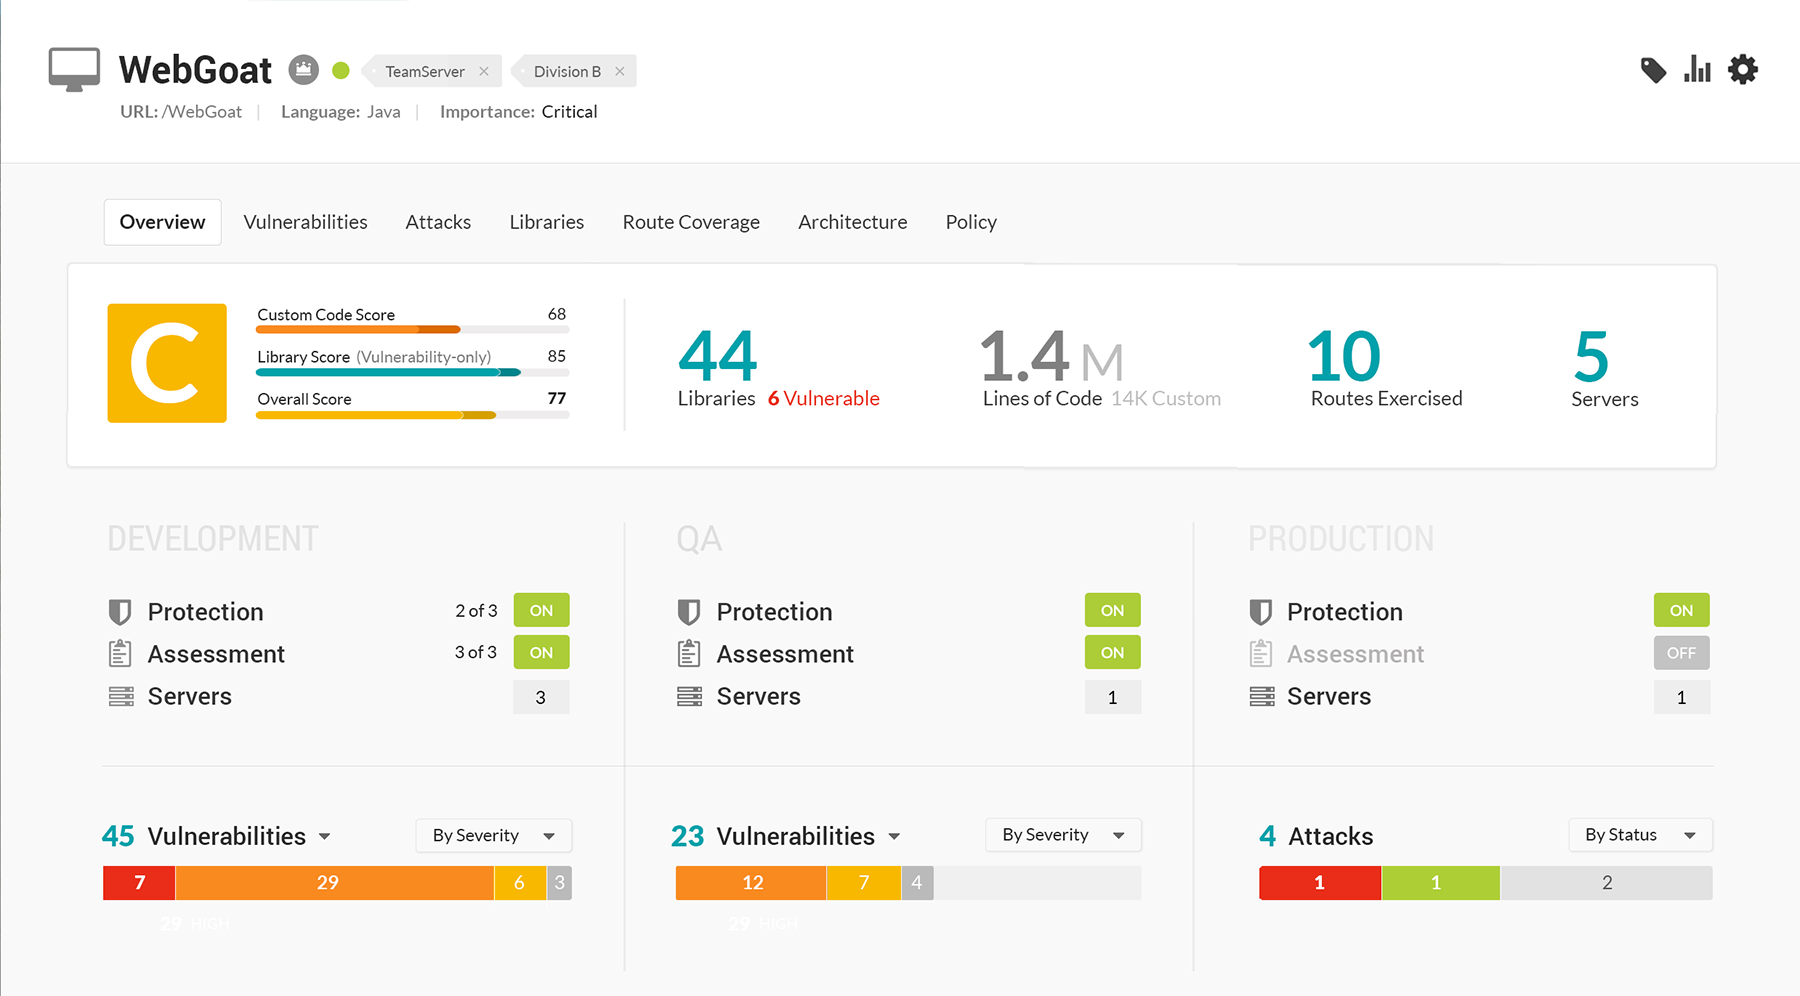
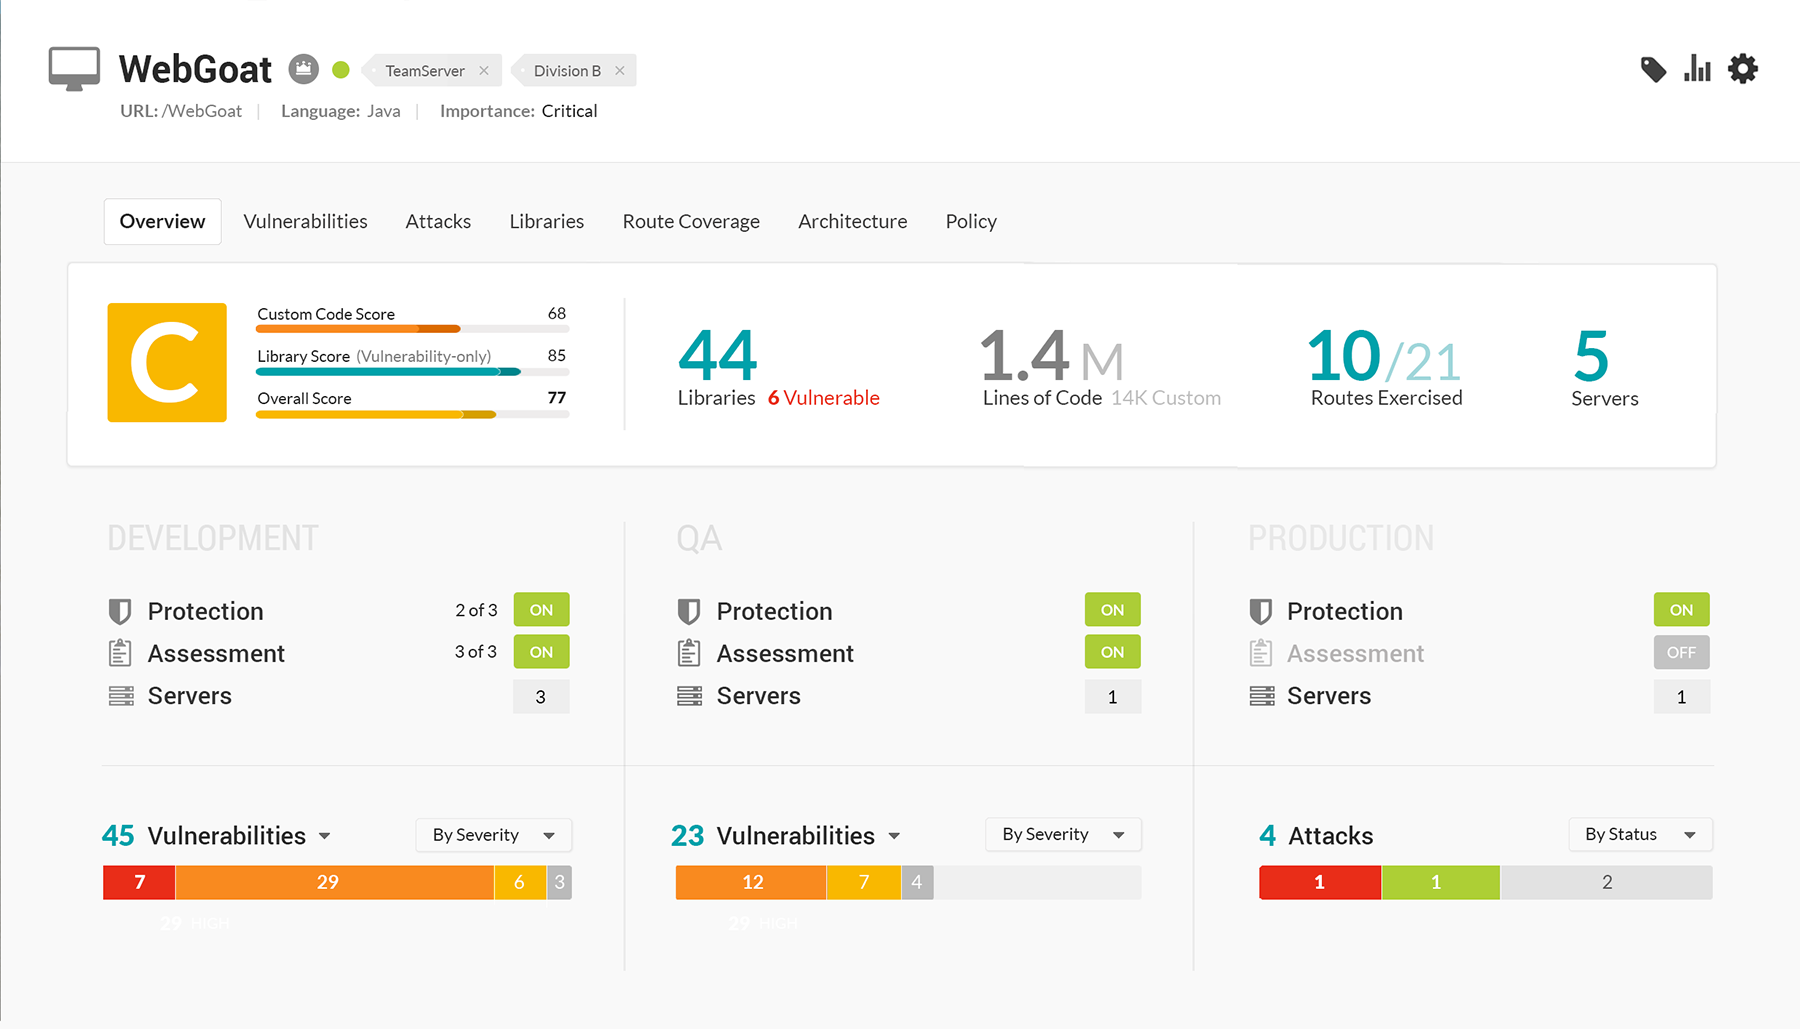
updated image and text

diff --git a/content/user/apps/Route-coverage.md b/content/user/apps/Route-coverage.md
@@ -6,14 +6,14 @@ tags: "user UI applications route coverage exercised vulnerabilities"
 
 View the amount of coverage Contrast is providing to your application with route coverage. The more you exercise different URLs, or "routes", the more Contrast can successfully Assess and Protect your application. 
 
-Go to the **Route Coverage** tab to view the routes that Contrast has identified in the application. Each layer of the line chart represents routes that have been **discovered** (but never exercised with Contrast), **exercised** with Contrast, and exercised but **vulnerable**. 
+In application's **Overview** tab, view the number of routes exercised compared to the number of total routes in your application. 
 
-You can also view details of each route, including the number of vulnerabilities found, in the grid. 
-Use the filters to narrow down your choices, or... <!-- Import...by clicking the icon above the grid... -->
+<a href="assets/images/App-overview.png" rel="lightbox" title="View routes in your application Overview"><img class="thumbnail" src="assets/images/App-overview.png"/></a>
 
-<a href="assets/images/App-route-coverage.png" rel="lightbox" title="Route Coverage"><img class="thumbnail" src="assets/images/App-route-coverage.png"/></a>
+Click on the figure or navigate to the **Route Coverage** tab to view details for each route that Contrast has identified in the application. Each layer of the line chart represents routes that have been **discovered** by Contrast (but never exercised), **exercised** with Contrast, and exercised but **vulnerable**. 
 
+<a href="assets/images/App-route-coverage.png" rel="lightbox" title="View detailed coverage information for each route"><img class="thumbnail" src="assets/images/App-route-coverage.png"/></a>
 
-You can also see number <!-- percentage ? --> of routes exercised in application's **Overview** tab. 
+You can also view details of each route, including the number of vulnerabilities found, in the **Route** grid. Use the filters or the search field to find certain routes. 
 
-<a href="assets/images/App-overview.png" rel="lightbox" title="View your application Overview"><img class="thumbnail" src="assets/images/App-overview.png"/></a>
+<!-- If you suspect that there are more routes in your application that Contrast has yet to discover, click the **import** icon to upload a CSV spreadsheet of all known routes. -->
